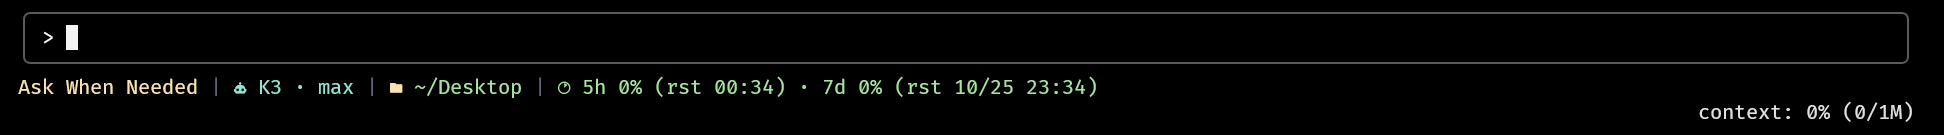
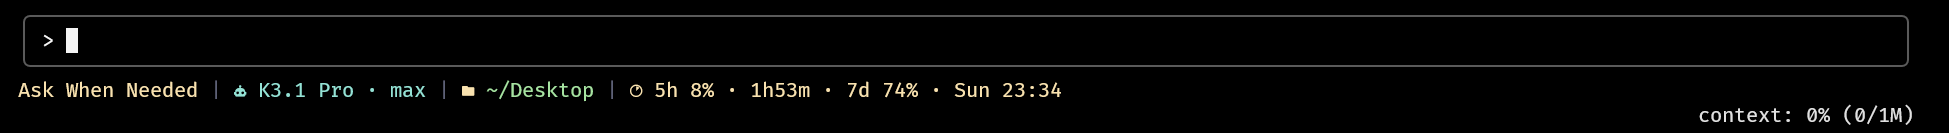
Release 0.2.0: new screenshot, tested with Kimi Code 2.3.1
The screenshot shows the new quota format. Both READMEs list Kimi Code
2.3.1 as tested, and the CHANGELOG section is dated.

Claude-Session: https://claude.ai/code/session_01SGun8qacvkKnFcGqZ1VLb8

diff --git a/CHANGELOG.md b/CHANGELOG.md
@@ -1,6 +1,6 @@
 # Changelog
 
-## [Unreleased]
+## [0.2.0] - 2026-10-24
 
 - Prompt-cache countdown at the end of the line, between turns: the minutes until Kimi Code's server drops the session's prompt cache (blue, yellow in the last 5 minutes, then `cold`), as the Claude Code status line has it. The duration per model is Kimi Code's own estimate, fetched once a day from its server without a token (Kimi Code's cached copy if that fails). The time of the last model call, whether a turn is running and model switches (which make it `cold`) come from the session log, so no hooks are needed.
 - The quota reads like ccline 2 in Claude Code: the time left in the 5-hour window and the day and time the week resets (`5h 5% · 3h41m · 7d 52% · Sat 23:34`). It is refetched right after a window resets.

diff --git a/README.md b/README.md
@@ -32,7 +32,7 @@ Context use is left out because Kimi Code's second footer line already shows it.
 
 ## Requirements
 
-- Windows 10 or 11 with [Kimi Code](https://www.kimi.com/code). Tested with Kimi Code 2.2.0.
+- Windows 10 or 11 with [Kimi Code](https://www.kimi.com/code). Tested with Kimi Code 2.2.0 and 2.3.1.
 - [Git for Windows](https://git-scm.com/download/win), for its bash 5: `winget install Git.Git`
 - [jq](https://jqlang.org), for the quota, thinking effort, changed lines and cache countdown: `winget install jqlang.jq`. Without it, those parts stay empty.
 - A [Nerd Font](https://www.nerdfonts.com) as your terminal's font, for the icons.
